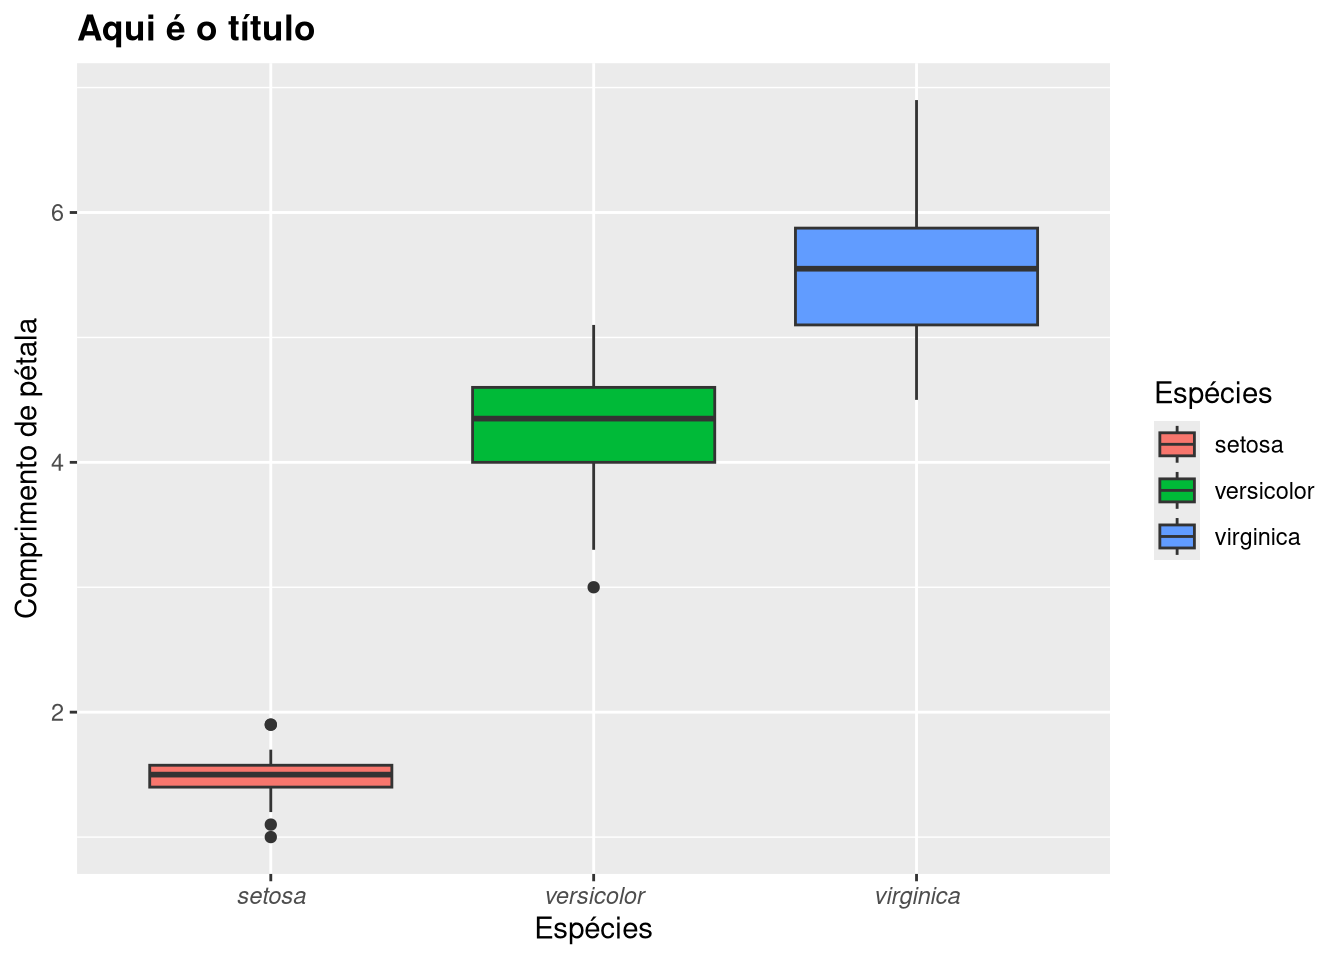
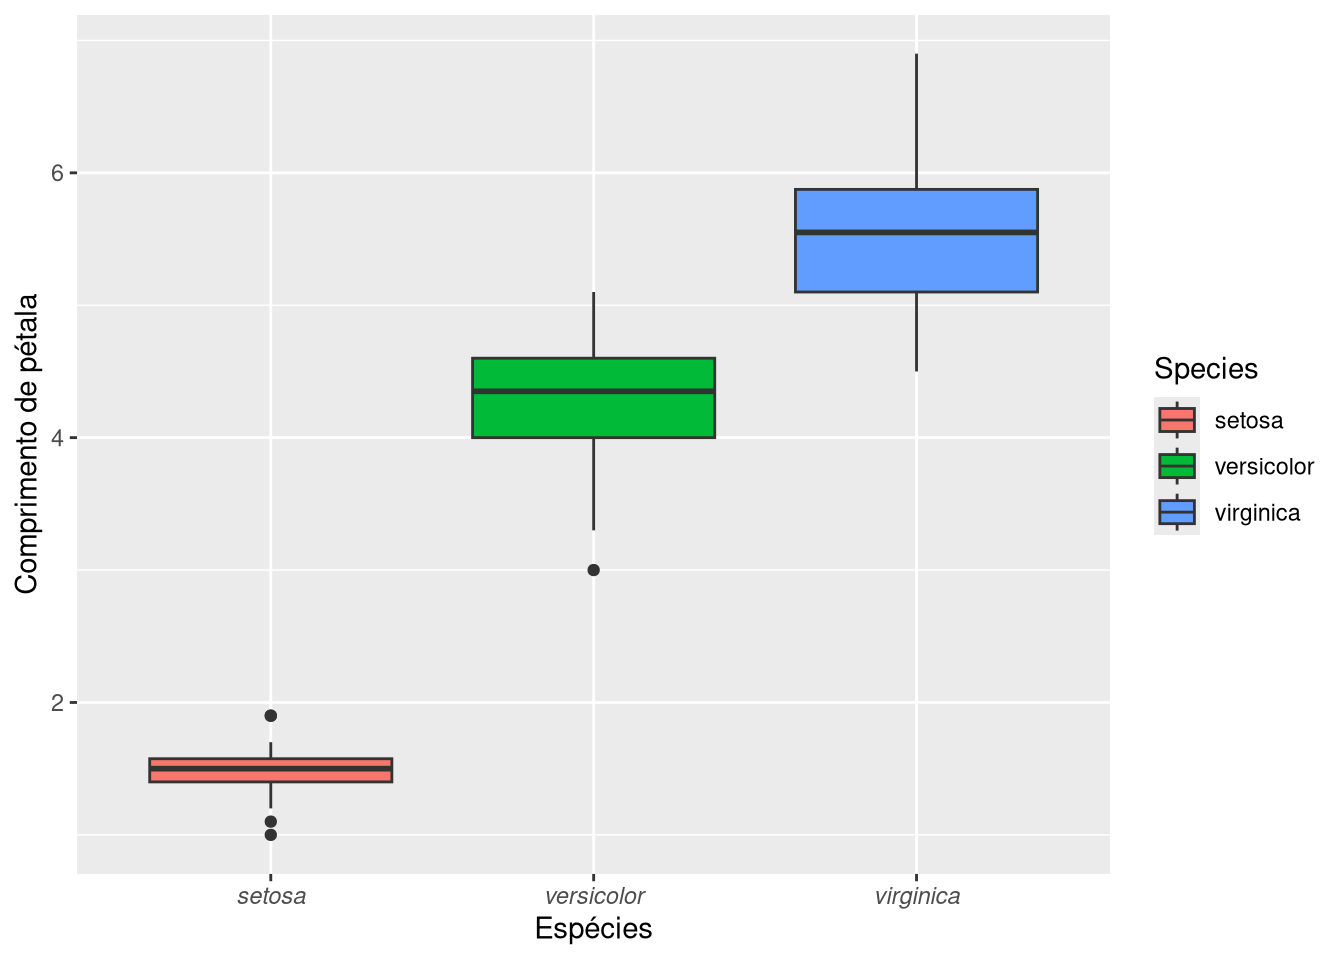
atualizando site para ver como fica 5

diff --git a/_site/index.html b/_site/index.html
@@ -8,7 +8,7 @@
 
 <meta name="author" content="Isadora Real">
 
-<title>Oficina ggplot2 UFPel – oficinaggplotufpel.github.io</title>
+<title>Introdução ao ggplot2 – Oficina ggplot2 UFPel</title>
 <style>
 code{white-space: pre-wrap;}
 span.smallcaps{font-variant: small-caps;}
@@ -116,7 +116,7 @@ pre > code.sourceCode > span > a:first-child::before { text-decoration: underlin
       <div class="navbar-container container-fluid">
       <div class="navbar-brand-container mx-auto">
     <a class="navbar-brand" href="./index.html">
-    <span class="navbar-title">oficinaggplotufpel.github.io</span>
+    <span class="navbar-title">Oficina ggplot2 UFPel</span>
     </a>
   </div>
             <div id="quarto-search" class="" title="Search"></div>
@@ -162,6 +162,8 @@ pre > code.sourceCode > span > a:first-child::before { text-decoration: underlin
   <li><a href="#alterando-elementos-textuais-no-ggplot" id="toc-alterando-elementos-textuais-no-ggplot" class="nav-link" data-scroll-target="#alterando-elementos-textuais-no-ggplot">Alterando elementos textuais no ggplot</a>
   <ul class="collapse">
   <li><a href="#alterando-a-fonte" id="toc-alterando-a-fonte" class="nav-link" data-scroll-target="#alterando-a-fonte">Alterando a fonte</a></li>
+  <li><a href="#manipulação-da-legenda" id="toc-manipulação-da-legenda" class="nav-link" data-scroll-target="#manipulação-da-legenda">Manipulação da legenda</a></li>
+  <li><a href="#anotação-me-gráfico" id="toc-anotação-me-gráfico" class="nav-link" data-scroll-target="#anotação-me-gráfico">Anotação me gráfico</a></li>
   </ul></li>
   </ul></li>
   </ul>
@@ -172,7 +174,7 @@ pre > code.sourceCode > span > a:first-child::before { text-decoration: underlin
 
 <header id="title-block-header" class="quarto-title-block default">
 <div class="quarto-title">
-<h1 class="title">Oficina ggplot2 UFPel</h1>
+<h1 class="title">Introdução ao ggplot2</h1>
 </div>
 
 
@@ -363,7 +365,7 @@ pre > code.sourceCode > span > a:first-child::before { text-decoration: underlin
 </div>
 <section id="alterando-a-fonte" class="level3">
 <h3 class="anchored" data-anchor-id="alterando-a-fonte">Alterando a fonte</h3>
-<p>Para alterar o tipo fonte do gráficos é necessário usar o pacote <code>extrafont</code>. Abaixo estará os comandos para instalar o pacote e carrega-lo</p>
+<p>Para alterar o tipo fonte do gráficos é necessário usar o pacote <code>extrafont</code>. Abaixo estará os comandos para instalar o pacote e carrega-lo.</p>
 <div class="cell">
 <div class="sourceCode cell-code" id="cb13"><pre class="sourceCode r code-with-copy"><code class="sourceCode r"><span id="cb13-1"><a href="#cb13-1" aria-hidden="true" tabindex="-1"></a><span class="co"># Instalando o pacote extrafont</span></span>
 <span id="cb13-2"><a href="#cb13-2" aria-hidden="true" tabindex="-1"></a><span class="fu">install.packages</span>(<span class="st">"extrafont"</span>)</span>
@@ -406,17 +408,10 @@ pre > code.sourceCode > span > a:first-child::before { text-decoration: underlin
 </figure>
 </div>
 </div>
-<div class="sourceCode cell-code" id="cb17"><pre class="sourceCode r code-with-copy"><code class="sourceCode r"><span id="cb17-1"><a href="#cb17-1" aria-hidden="true" tabindex="-1"></a>iris<span class="sc">%&gt;%</span><span class="fu">ggplot</span>(<span class="fu">aes</span>(<span class="at">x=</span>Species, <span class="at">y=</span>Petal.Length, <span class="at">fill=</span>Species))<span class="sc">+</span><span class="fu">geom_boxplot</span>()<span class="sc">+</span><span class="fu">labs</span>(<span class="at">y=</span><span class="st">"Comprimento de pétala"</span>, <span class="at">x=</span><span class="st">"Espécies"</span>)<span class="sc">+</span><span class="fu">theme</span>(<span class="at">axis.text.x =</span> <span class="fu">element_text</span>(<span class="at">face=</span><span class="st">"italic"</span>))</span></code><button title="Copy to Clipboard" class="code-copy-button"><i class="bi"></i></button></pre></div>
-<div class="cell-output-display">
-<div>
-<figure class="figure">
-<p><img src="index_files/figure-html/unnamed-chunk-2-4.png" class="img-fluid figure-img" width="672"></p>
-</figure>
 </div>
-</div>
-</div>
+<p>As vezes é necessário colocar nomes em itálico, como por exemplo nomes de espécies que estão no eixo x. Com isso dentro de <code>theme()</code> colocaremos o arguemento <code>axis.text.x = element_text(face="italic")</code> se referindo que estaremos trabalhando com o texto presente na escala do eixo x. Caso fosse no eixo y seria <code>axis.text.y</code>. Essa alteração também pode ser aplicada à outros parâmetros, como <code>fill</code> e <code>color</code>. Trabalhando assim, podemos alterar a fonte apenas daquele parâmetro.</p>
 <div class="cell">
-<div class="sourceCode cell-code" id="cb18"><pre class="sourceCode r code-with-copy"><code class="sourceCode r"><span id="cb18-1"><a href="#cb18-1" aria-hidden="true" tabindex="-1"></a>iris<span class="sc">%&gt;%</span><span class="fu">ggplot</span>(<span class="fu">aes</span>(<span class="at">x=</span>Species, <span class="at">y=</span>Petal.Length, <span class="at">fill=</span>Species))<span class="sc">+</span><span class="fu">geom_boxplot</span>()<span class="sc">+</span><span class="fu">labs</span>(<span class="at">y=</span><span class="st">"Comprimento de pétala"</span>, <span class="at">x=</span><span class="st">"Espécies"</span>, <span class="at">fill=</span><span class="st">"Espécies"</span>, <span class="at">title=</span><span class="st">"Aqui é o título"</span>)<span class="sc">+</span><span class="fu">theme</span>(<span class="at">axis.text.x =</span> <span class="fu">element_text</span>(<span class="at">face=</span><span class="st">"italic"</span>), <span class="at">plot.title =</span> <span class="fu">element_text</span>(<span class="at">face=</span><span class="st">"bold"</span>))</span></code><button title="Copy to Clipboard" class="code-copy-button"><i class="bi"></i></button></pre></div>
+<div class="sourceCode cell-code" id="cb17"><pre class="sourceCode r code-with-copy"><code class="sourceCode r"><span id="cb17-1"><a href="#cb17-1" aria-hidden="true" tabindex="-1"></a>iris<span class="sc">%&gt;%</span><span class="fu">ggplot</span>(<span class="fu">aes</span>(<span class="at">x=</span>Species, <span class="at">y=</span>Petal.Length, <span class="at">fill=</span>Species))<span class="sc">+</span><span class="fu">geom_boxplot</span>()<span class="sc">+</span><span class="fu">labs</span>(<span class="at">y=</span><span class="st">"Comprimento de pétala"</span>, <span class="at">x=</span><span class="st">"Espécies"</span>)<span class="sc">+</span><span class="fu">theme</span>(<span class="at">axis.text.x =</span> <span class="fu">element_text</span>(<span class="at">face=</span><span class="st">"italic"</span>))</span></code><button title="Copy to Clipboard" class="code-copy-button"><i class="bi"></i></button></pre></div>
 <div class="cell-output-display">
 <div>
 <figure class="figure">
@@ -424,11 +419,35 @@ pre > code.sourceCode > span > a:first-child::before { text-decoration: underlin
 </figure>
 </div>
 </div>
+</div>
+<p>A seguir há o exemplo de deixar o título em negrito com maior destaque, utilizando o argumento <code>plot.title = element_text(face="bold")</code></p>
+<div class="cell">
+<div class="sourceCode cell-code" id="cb18"><pre class="sourceCode r code-with-copy"><code class="sourceCode r"><span id="cb18-1"><a href="#cb18-1" aria-hidden="true" tabindex="-1"></a>iris<span class="sc">%&gt;%</span><span class="fu">ggplot</span>(<span class="fu">aes</span>(<span class="at">x=</span>Species, <span class="at">y=</span>Petal.Length, <span class="at">fill=</span>Species))<span class="sc">+</span><span class="fu">geom_boxplot</span>()<span class="sc">+</span><span class="fu">labs</span>(<span class="at">y=</span><span class="st">"Comprimento de pétala"</span>, <span class="at">x=</span><span class="st">"Espécies"</span>, <span class="at">fill=</span><span class="st">"Espécies"</span>, <span class="at">title=</span><span class="st">"Aqui é o título"</span>)<span class="sc">+</span><span class="fu">theme</span>(<span class="at">axis.text.x =</span> <span class="fu">element_text</span>(<span class="at">face=</span><span class="st">"italic"</span>), <span class="at">plot.title =</span> <span class="fu">element_text</span>(<span class="at">face=</span><span class="st">"bold"</span>))</span></code><button title="Copy to Clipboard" class="code-copy-button"><i class="bi"></i></button></pre></div>
+<div class="cell-output-display">
+<div>
+<figure class="figure">
+<p><img src="index_files/figure-html/unnamed-chunk-4-1.png" class="img-fluid figure-img" width="672"></p>
+</figure>
+</div>
+</div>
+</div>
+</section>
+<section id="manipulação-da-legenda" class="level3">
+<h3 class="anchored" data-anchor-id="manipulação-da-legenda">Manipulação da legenda</h3>
+<p>Caso queremos tirar a legenda ou alterar a posição da legenda, utilizaremos o argumento <code>legend.position =</code>:</p>
+<ul>
+<li><p><strong>“none”</strong> para tirar a legenda</p></li>
+<li><p><strong>“top”</strong> para a legenda ficar em cima</p></li>
+<li><p><strong>“bottom”</strong> para a legenda ficar em baixo</p></li>
+<li><p><strong>“left”</strong> para a legenda ficar na esquerda</p></li>
+<li><p><strong>“right”</strong> para a legenda ficar na direita</p></li>
+</ul>
+<div class="cell">
 <div class="sourceCode cell-code" id="cb19"><pre class="sourceCode r code-with-copy"><code class="sourceCode r"><span id="cb19-1"><a href="#cb19-1" aria-hidden="true" tabindex="-1"></a>iris<span class="sc">%&gt;%</span><span class="fu">ggplot</span>(<span class="fu">aes</span>(<span class="at">x=</span>Species, <span class="at">y=</span>Petal.Length, <span class="at">fill=</span>Species))<span class="sc">+</span><span class="fu">geom_boxplot</span>()<span class="sc">+</span><span class="fu">labs</span>(<span class="at">y=</span><span class="st">"Comprimento de pétala"</span>, <span class="at">x=</span><span class="st">"Espécies"</span>, <span class="at">fill=</span><span class="st">"Espécies"</span>, <span class="at">title=</span><span class="st">"Aqui é o título"</span>)<span class="sc">+</span><span class="fu">theme</span>(<span class="at">axis.text.x =</span> <span class="fu">element_text</span>(<span class="at">face=</span><span class="st">"italic"</span>), <span class="at">plot.title =</span> <span class="fu">element_text</span>(<span class="at">face=</span><span class="st">"bold"</span>), <span class="at">legend.position =</span> <span class="st">"none"</span>)</span></code><button title="Copy to Clipboard" class="code-copy-button"><i class="bi"></i></button></pre></div>
 <div class="cell-output-display">
 <div>
 <figure class="figure">
-<p><img src="index_files/figure-html/unnamed-chunk-3-2.png" class="img-fluid figure-img" width="672"></p>
+<p><img src="index_files/figure-html/unnamed-chunk-5-1.png" class="img-fluid figure-img" width="672"></p>
 </figure>
 </div>
 </div>
@@ -436,7 +455,7 @@ pre > code.sourceCode > span > a:first-child::before { text-decoration: underlin
 <div class="cell-output-display">
 <div>
 <figure class="figure">
-<p><img src="index_files/figure-html/unnamed-chunk-3-3.png" class="img-fluid figure-img" width="672"></p>
+<p><img src="index_files/figure-html/unnamed-chunk-5-2.png" class="img-fluid figure-img" width="672"></p>
 </figure>
 </div>
 </div>
@@ -444,7 +463,7 @@ pre > code.sourceCode > span > a:first-child::before { text-decoration: underlin
 <div class="cell-output-display">
 <div>
 <figure class="figure">
-<p><img src="index_files/figure-html/unnamed-chunk-3-4.png" class="img-fluid figure-img" width="672"></p>
+<p><img src="index_files/figure-html/unnamed-chunk-5-3.png" class="img-fluid figure-img" width="672"></p>
 </figure>
 </div>
 </div>
@@ -452,10 +471,15 @@ pre > code.sourceCode > span > a:first-child::before { text-decoration: underlin
 <div class="cell-output-display">
 <div>
 <figure class="figure">
-<p><img src="index_files/figure-html/unnamed-chunk-3-5.png" class="img-fluid figure-img" width="672"></p>
+<p><img src="index_files/figure-html/unnamed-chunk-5-4.png" class="img-fluid figure-img" width="672"></p>
 </figure>
 </div>
 </div>
+</div>
+</section>
+<section id="anotação-me-gráfico" class="level3">
+<h3 class="anchored" data-anchor-id="anotação-me-gráfico">Anotação me gráfico</h3>
+<div class="cell">
 <div class="sourceCode cell-code" id="cb23"><pre class="sourceCode r code-with-copy"><code class="sourceCode r"><span id="cb23-1"><a href="#cb23-1" aria-hidden="true" tabindex="-1"></a>iris<span class="sc">%&gt;%</span><span class="fu">ggplot</span>(<span class="fu">aes</span>(<span class="at">x=</span>Species, <span class="at">y=</span>Petal.Length, <span class="at">fill=</span>Species))<span class="sc">+</span><span class="fu">geom_boxplot</span>()<span class="sc">+</span><span class="fu">labs</span>(<span class="at">y=</span><span class="st">"Comprimento de pétala"</span>, <span class="at">x=</span><span class="st">"Espécies"</span>, <span class="at">fill=</span><span class="st">"Espécies"</span>, <span class="at">title=</span><span class="st">"Aqui é o título"</span>)<span class="sc">+</span><span class="fu">theme</span>(<span class="at">axis.text.x =</span> <span class="fu">element_text</span>(<span class="at">face=</span><span class="st">"italic"</span>), <span class="at">plot.title =</span> <span class="fu">element_text</span>(<span class="at">face=</span><span class="st">"bold"</span>), <span class="at">legend.position =</span> <span class="st">"left"</span>, <span class="at">legend.text =</span> <span class="fu">element_text</span>(<span class="at">face=</span><span class="st">"italic"</span>))<span class="sc">+</span> <span class="fu">geom_text</span>(<span class="at">x =</span> <span class="fl">2.5</span>, <span class="at">y =</span> <span class="dv">4</span>, <span class="at">label =</span> <span class="st">"Ponto importante"</span>, <span class="at">color =</span> <span class="st">"red"</span>, <span class="at">face=</span><span class="st">"bold"</span>)</span></code><button title="Copy to Clipboard" class="code-copy-button"><i class="bi"></i></button></pre></div>
 <div class="cell-output cell-output-stderr">
 <pre><code>Warning in geom_text(x = 2.5, y = 4, label = "Ponto importante", color = "red",
@@ -464,7 +488,7 @@ pre > code.sourceCode > span > a:first-child::before { text-decoration: underlin
 <div class="cell-output-display">
 <div>
 <figure class="figure">
-<p><img src="index_files/figure-html/unnamed-chunk-3-6.png" class="img-fluid figure-img" width="672"></p>
+<p><img src="index_files/figure-html/unnamed-chunk-6-1.png" class="img-fluid figure-img" width="672"></p>
 </figure>
 </div>
 </div>
@@ -480,7 +504,7 @@ Ignoring unknown aesthetics: x</code></pre>
 <div class="cell-output-display">
 <div>
 <figure class="figure">
-<p><img src="index_files/figure-html/unnamed-chunk-3-7.png" class="img-fluid figure-img" width="672"></p>
+<p><img src="index_files/figure-html/unnamed-chunk-6-2.png" class="img-fluid figure-img" width="672"></p>
 </figure>
 </div>
 </div>
@@ -488,7 +512,7 @@ Ignoring unknown aesthetics: x</code></pre>
 <div class="cell-output-display">
 <div>
 <figure class="figure">
-<p><img src="index_files/figure-html/unnamed-chunk-3-8.png" class="img-fluid figure-img" width="672"></p>
+<p><img src="index_files/figure-html/unnamed-chunk-6-3.png" class="img-fluid figure-img" width="672"></p>
 </figure>
 </div>
 </div>
